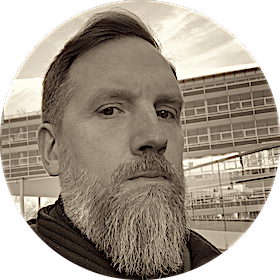
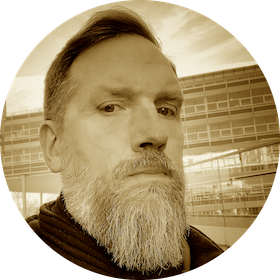
Fawkes — privacy protection

diff --git a/_posts/2020-10-29-fawkes-privacy-protection.md b/_posts/2020-10-29-fawkes-privacy-protection.md
@@ -1,0 +1,35 @@
+---
+layout:  post
+title:   Fawkes — privacy protection
+date:    2020-10-29 21:12 +0100
+image:   blonde-629726_1280.jpg
+credit:  https://pixabay.com/de/photos/blondine-m%C3%A4dchen-einnahme-foto-629726/
+tags:    privacy machine-learning
+excerpt: Fawkes is "a system that helps individuals inoculate their images against unauthorized facial recognition models. Fawkes achieves this by helping users add imperceptible pixel-level changes (we call them “cloaks”) to their own photos before releasing them."
+---
+
+> Fawkes is a privacy protection system developed by researchers at SANDLab, University of Chicago. — [Fawkes](https://pypi.org/project/fawkes/)
+
+Have you seen? The photo on the homepage looks a bit different. I changed the original photo with Fawkes and adjusted the colors with ML, some filters (e.g. sepia) with [Pixelmator Photo](https://www.pixelmator.com/photo/).
+
+![new profil picture](/images/01.png)
+
+## Fawkes
+
+Fawkes is "a system that helps individuals inoculate their images against unauthorized facial recognition models. Fawkes achieves this by helping users add imperceptible pixel-level changes (we call them “cloaks”) to their own photos before releasing them."
+
+See also [Fawkes: Protecting Privacy against Unauthorized Deep Learning Models](https://www.shawnshan.com/files/publication/fawkes.pdf)
+
+In this way, known and unknown third parties are restricted from creating face recognition models from publicly available photos. 
+If they try to identify you by giving the model an unaltered / "un camouflaged" image of you (e.g. a photo taken in public), the model will not recognize you.
+
+Fawkes is a software tool that runs locally on your computer. Here is the result of a modification and of course I will not show the original picture 🕵♂:
+
+![me cloaked](/images/fawkes_low_cloaked.jpg)
+
+## Summary
+
+The generation of a fake image takes some time and you can see patches in my face. However, this is not a photo that you want to share. Especially when you compare it with all these photos modified with Photoshop or generated with SnapChat filters.
+After I ran some filters over the picture, it doesn't look that bad. Maybe the filters would have been enough, and all the effort wouldn’t be necessary?
+
+Any comments? Write me on Twitter [@choas](https://twitter.com/choas) (DM is open).
